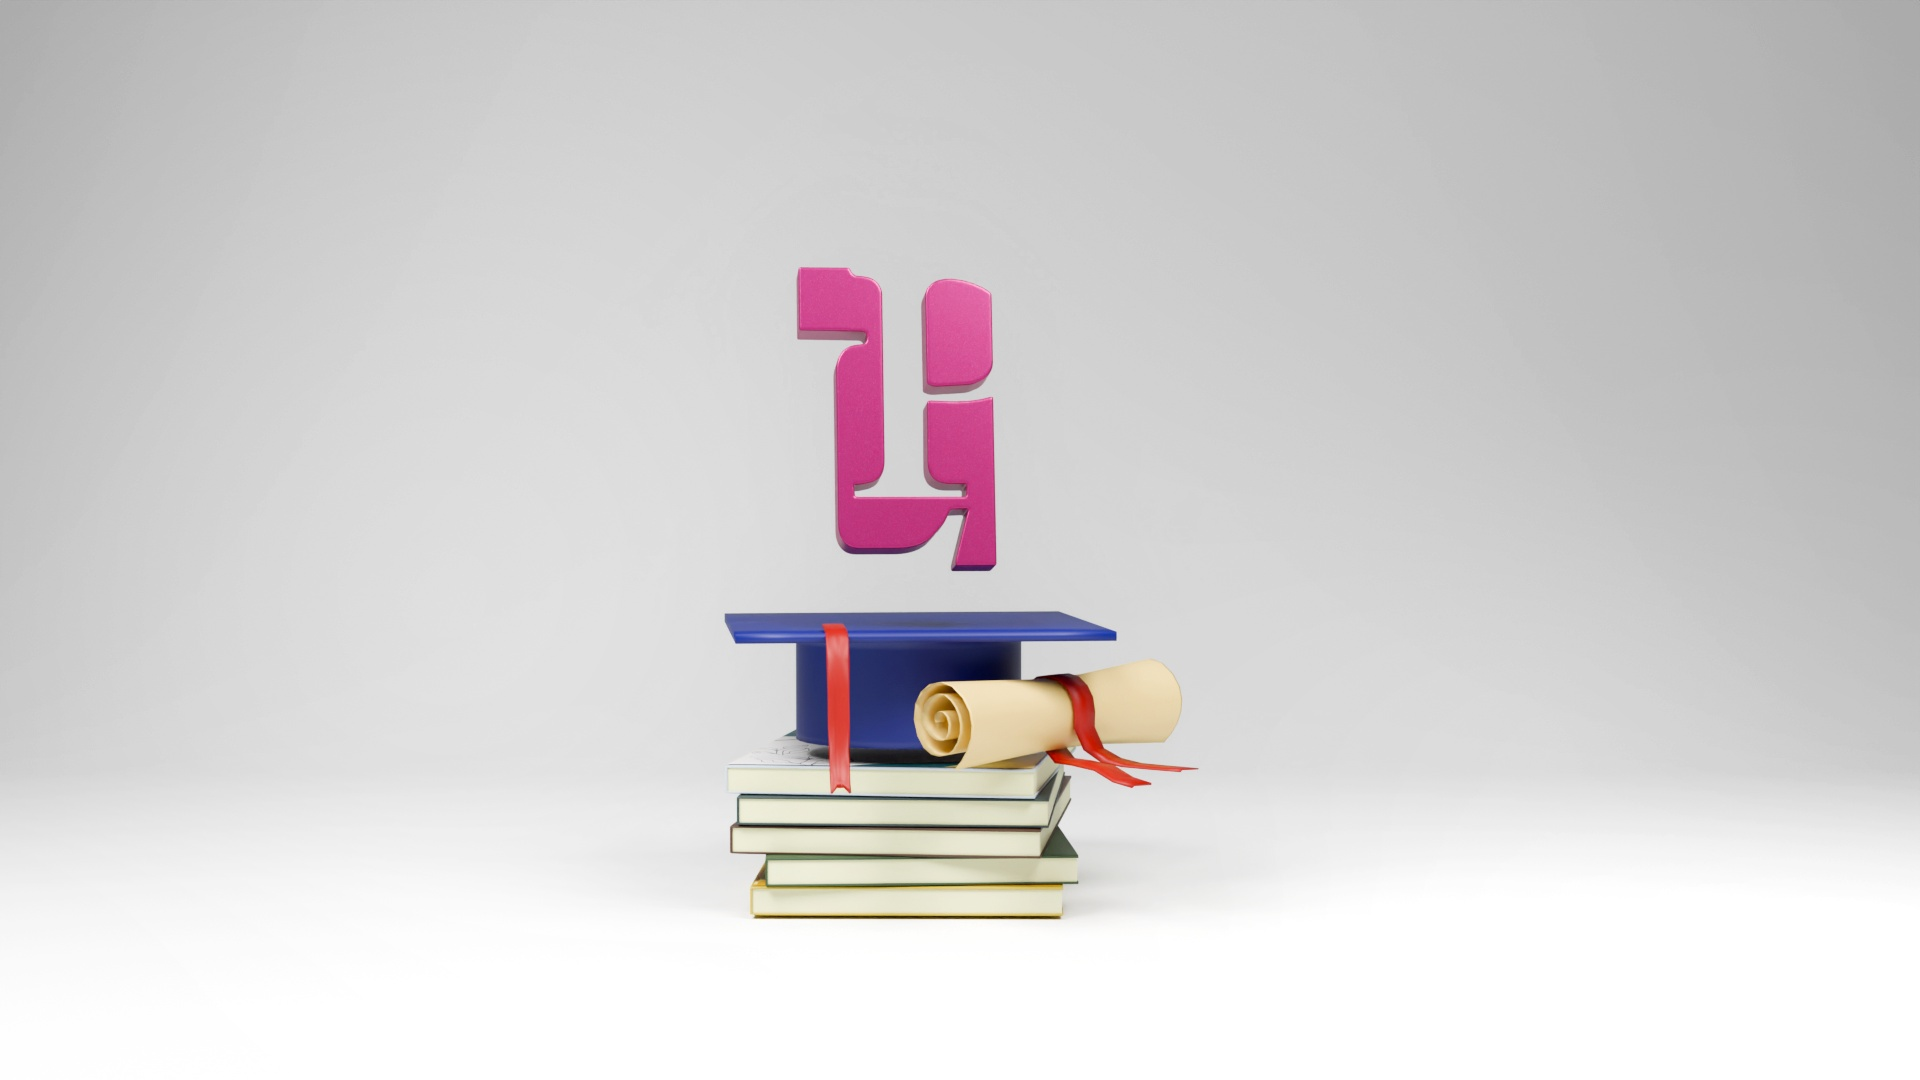
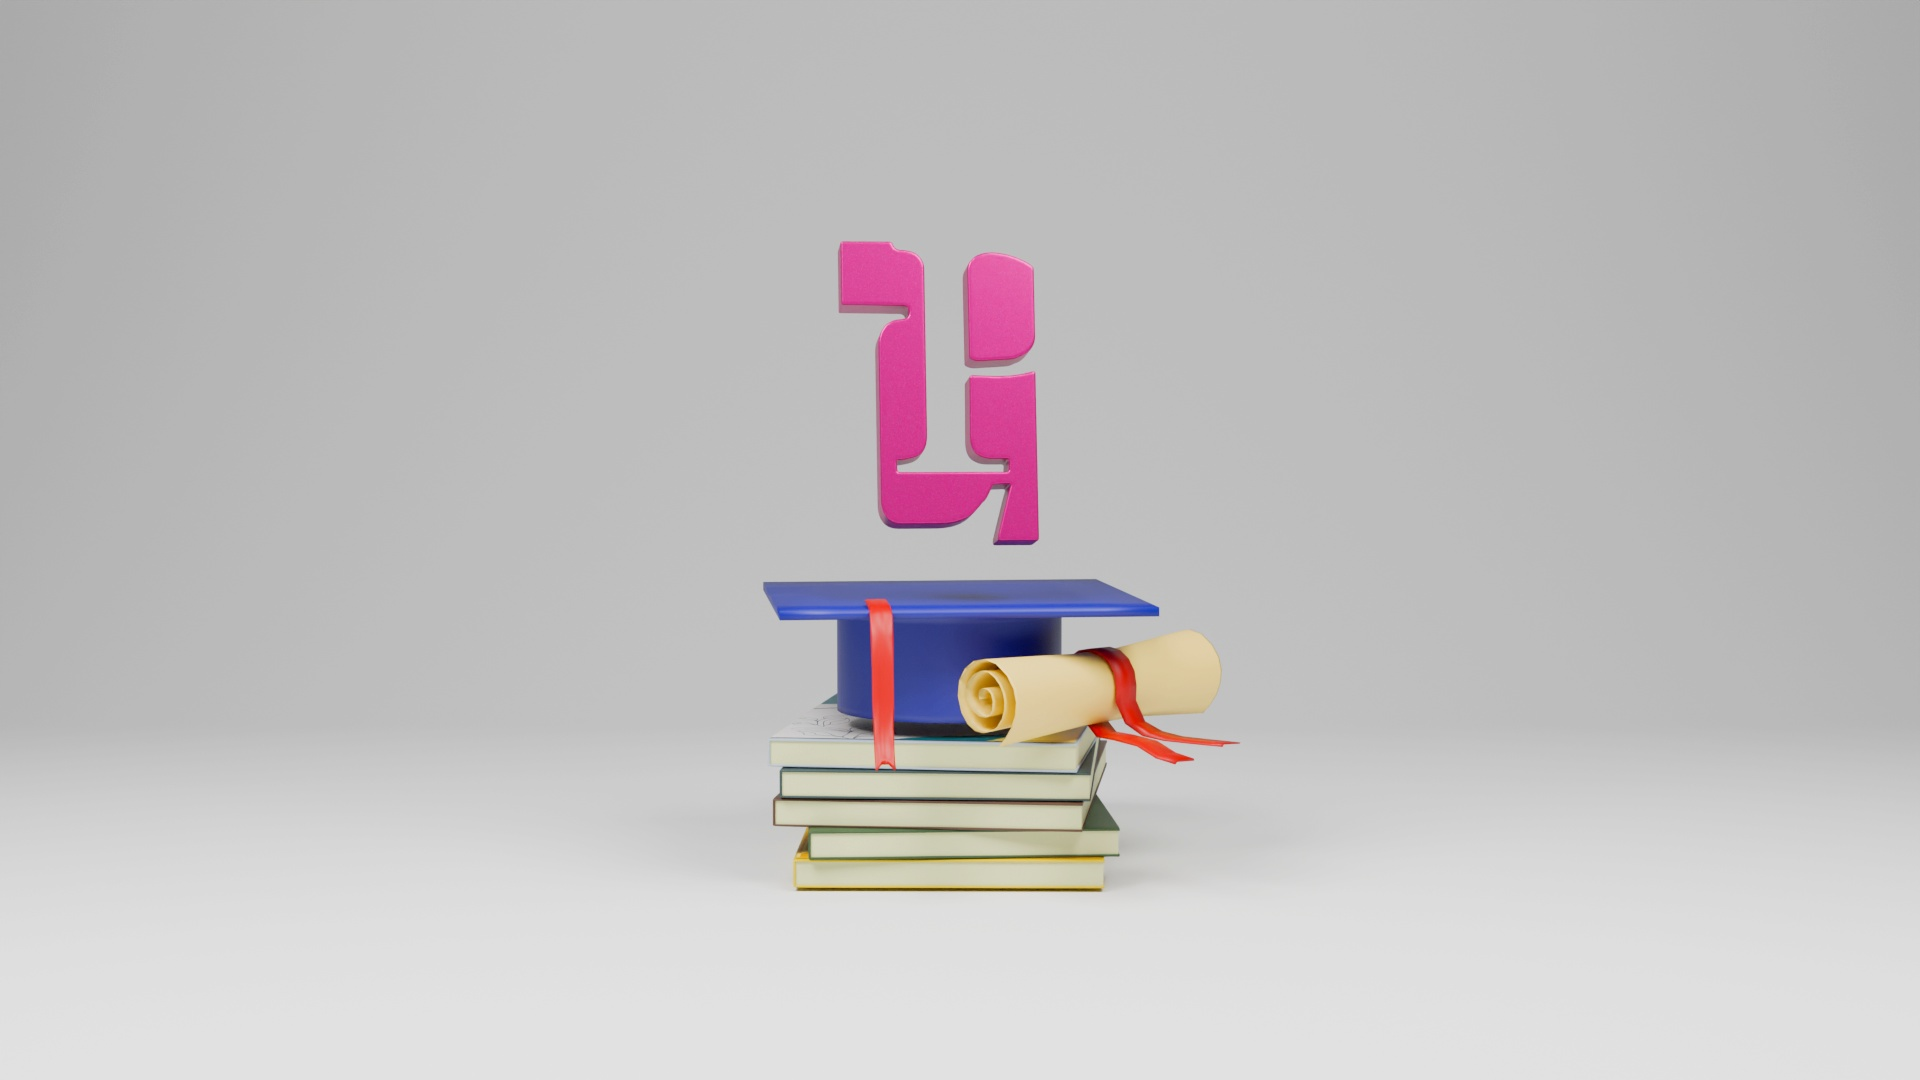
4th commit

diff --git a/templates/home.html b/templates/home.html
@@ -444,7 +444,7 @@
         }
          /* Hero Section */
          .hero-section {
-                    background: url('/static/life12.jpg') no-repeat center center / cover;
+                    background: url('/static/life13.jpg') no-repeat center center / cover;
                     height: 800px;
                     
                     
